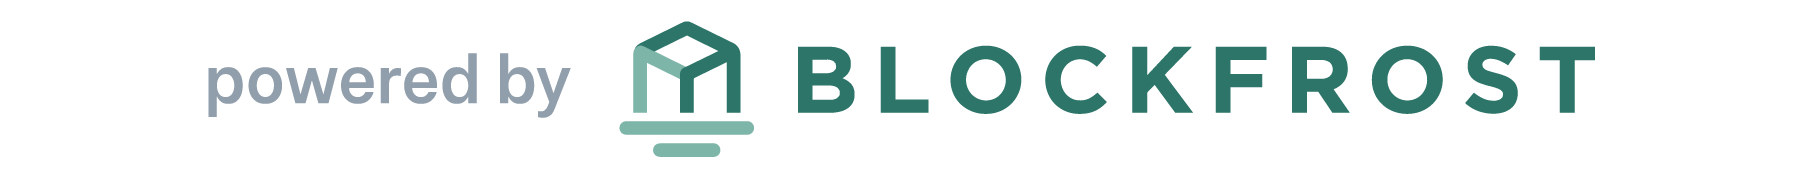
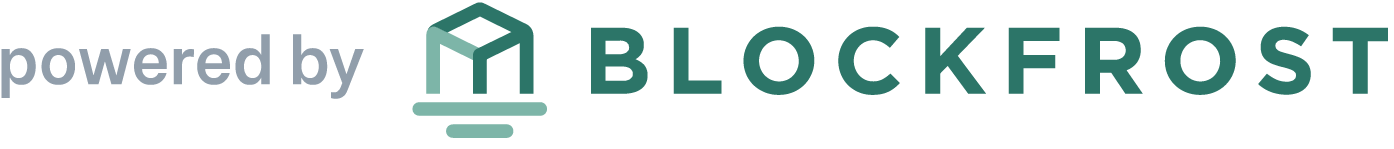
some clean up

Changed region(s): [[0.0, 0.0268, 1.0, 0.9396]]

diff --git a/src/i18n.ts b/src/i18n.ts
@@ -162,11 +162,11 @@ Réseaux de test Shelley, réseau avec récompenses \"ITN\", réseau de mise au 
           alexey: "*\" Je suis développeur blockchain. Je pirate l'ERC20, l'ERC21, le Covid 19, le borsch, le concombre. A mains nues. Assez parlé !* \"",
           alexey_sig: "***@Aleksei***"
           experienceTitle: "Qu'offrons-nous ?",
-          experience: "Nous offrons une expérience de staking **fiable** et **peu onéreuse** sur la blockchain Cardano. Cela se traduit en une expérience **facile** et **profitable** pour tous nos délégataires.",
+          experience: "Nous offrons une expérience de staking **fiable** et **peu onéreuse** sur la blockchain Cardano. Cela se traduit en une expérience **facile** et **profitable** pour tous nos délégateurs.",
           transparentTitle: "Transparence",
           transparent: "De nos coûts jusqu'à nos relevés de performance, vous saurez tout grâce à notre **[newsletter](https://stakhanovite.substack.com/)** mensuelle et à notre **chaîne [Telegram](https://t.me/StakhanoviteIO)** dédiées. Abonnez-vous, et venez nous saluer !",
           efficientTitle: "Efficacité",
-          efficient: "Depuis son lancement, Stakhanovite a distribué plus de 6 millions d'ADA de récompenses à ses délégataires. Nous fonctionnons depuis le mois de Décember 2019, sans aucune interruption de service. **Rejoignez-nous !**",
+          efficient: "Depuis son lancement, Stakhanovite a distribué plus de 6 millions d'ADA de récompenses à ses délégateurs. Nous fonctionnons depuis le mois de Décember 2019, sans aucune interruption de service. **Rejoignez-nous !**",
           wallets: "Déléguez en utilisant les portefeuilles Cardano les plus populaires - [**Daedalus**](https://daedaluswallet.io) ou [**Yoroi**](https://yoroi-wallet.com) - et cherchez notre pool **STKH1** !",
           faq: "Consultez notre F.A.Q. pour plus de détails.",
           contact: "Contactez-nous",
@@ -278,7 +278,7 @@ Toutes les données fournies le sont à titre d'information uniquement.`,
           update: 'Ces statistiques sont mises à jour toutes les heures. Des changements récents peuvent ne pas immédiatement être reflétés ici.',
           current: 'Epoque actuelle',
           saturation: 'Saturation du Pool',
-          number: 'Nombre de Délégataires',
+          number: 'Nombre de Délégateurs',
           stake: 'Mon Enjeu Actif',
           rewards: 'Récompenses Totales',
           last: 'Dernières Récompenses',

diff --git a/src/Pages/Delegator.tsx b/src/Pages/Delegator.tsx
@@ -1,7 +1,7 @@
 import * as React from 'react';
 import marked from 'marked';
 import { Line } from '@nivo/line';
-import { hexToRgb, makeStyles } from '@material-ui/core/styles';
+import { makeStyles } from '@material-ui/core/styles';
 import Button from '@material-ui/core/Button';
 import TextField from '@material-ui/core/TextField';
 import Typography from '@material-ui/core/Typography';
@@ -19,12 +19,8 @@ const useStyles = makeStyles(theme => ({
     paddingBottom: 300,
   },
   image: {
-    display: 'block',
-    position: 'sticky',
-    left: '300px',
-    width: '100%',
     paddingTop: 0,
-    paddingBottom: 0,
+    paddingBottom: 100,
   }
   delegator: {
     display: 'block',
@@ -173,8 +169,9 @@ function DelegatorRewards({ address, rewards }): JSX.Element {
 
   return (
     <>
+      <div>
       <div className={classes.delegator}>
-      <Typography component="span" variant="h3" align='center'>
+      <Typography component="span" variant="h3">
         <span dangerouslySetInnerHTML={{__html:marked(t(`delegator:welcome`))}}></span>
       </Typography>
       </div>
@@ -219,11 +216,14 @@ function DelegatorRewards({ address, rewards }): JSX.Element {
           </Bubble>
         </div>
       </div>
+      <div className={classes.image} align='center'>
       <Typography variant="body2">
         <span dangerouslySetInnerHTML={{__html:marked(t(`delegator:update`))}}></span>
       </Typography>
-      <div className={classes.image}>
-            <img alt="blockFrostLogo" src={blockfrost2} width={300} height="auto"/>
+      <div>
+            <img alt="blockFrostLogo" src={blockfrost2} width={250} height="auto"/>
+      </div>
+      </div>
       </div>
     </>
   );
